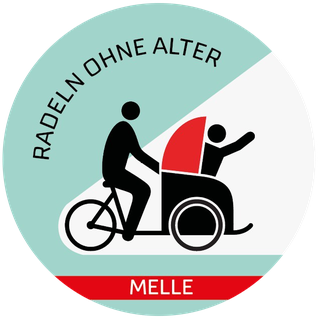
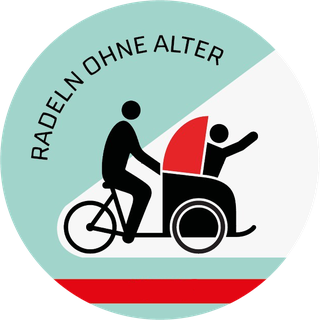
Projektlogo ohne Ortsnamen, App heißt Rikscha-Fahrten
Das Logo „Radeln ohne Alter" gilt jetzt für alle Standorte: Es ersetzt
das Melle-Abzeichen auf der Anmeldekarte, in der Leiste, beim Einrichten
der App und in allen App- und Browsersymbolen. Der Kreis ist sauber
freigestellt, damit auf dem blauen Grund kein heller Rand steht.

Browser-Tab, Startbildschirm und Manifest heißen „Rikscha-Fahrten“.
Die Meldung für unbekannte Namen verweist auf „eure Koordination“, das
Beispiel beim Ort der Fahrt nennt keinen Ort mehr.

Claude-Session: https://claude.ai/code/session_01RX9pT1q1FqZi6HMQU5VNFW

diff --git a/index.html b/index.html
@@ -4,7 +4,7 @@
     <meta charset="UTF-8" />
     <meta name="viewport" content="width=device-width, initial-scale=1.0, viewport-fit=cover" />
     <meta name="theme-color" content="#245892" />
-    <title>Rikscha – Hospizinitiative Melle</title>
+    <title>Rikscha-Fahrten</title>
 
     <!--
       Symbole und Manifest. Alle Pfade sind relativ, weil die App unter einem
@@ -19,8 +19,8 @@
     <!-- Auf dem iPhone ohne Browserleiste starten -->
     <meta name="apple-mobile-web-app-capable" content="yes" />
     <meta name="apple-mobile-web-app-status-bar-style" content="black-translucent" />
-    <meta name="apple-mobile-web-app-title" content="Rikscha Melle" />
-    <meta name="description" content="Fahrten und Pilot:innen der Aktion Radeln ohne Alter in Melle verwalten." />
+    <meta name="apple-mobile-web-app-title" content="Rikscha-Fahrten" />
+    <meta name="description" content="Fahrten und Pilot:innen der Aktion Radeln ohne Alter verwalten." />
 
     <!--
       Start-Diagnose: laeuft vor der eigentlichen App und faengt alles ab,

diff --git a/src/components/Marke.tsx b/src/components/Marke.tsx
@@ -11,7 +11,7 @@ export function Logo({ className }: { className?: string }) {
   return <img src={eigenes} className={className} alt="Logo der Organisation" />
 }
 
-/** Logo der Aktion „Radeln ohne Alter“, Standort Melle. */
+/** Logo des Projekts „Radeln ohne Alter“, für alle Standorte gleich. */
 export function RadelnLogo({ className }: { className?: string }) {
-  return <img src={radeln} className={className} alt="Radeln ohne Alter – Melle" />
+  return <img src={radeln} className={className} alt="Radeln ohne Alter" />
 }

diff --git a/src/components/FahrtDialog.tsx b/src/components/FahrtDialog.tsx
@@ -279,7 +279,7 @@ export function FahrtDialog({ fahrt, onClose, onGespeichert }: Props) {
                     id="fahrt-ort"
                     type="text"
                     value={werte.location}
-                    placeholder="z. B. Seniorenheim Melle, Haupteingang"
+                    placeholder="z. B. Seniorenzentrum am Park, Haupteingang"
                     onChange={(e) => setze('location', e.target.value)}
                     required
                   />

diff --git a/src/pages/Login.tsx b/src/pages/Login.tsx
@@ -42,7 +42,7 @@ export function Login() {
       const check = await checkLoginName(name)
       if (!check.found || !check.login_email) {
         setError(
-          'Dieser Name ist nicht hinterlegt. Bitte achte auf die genaue Schreibweise oder wende dich an die Koordination der Hospizinitiative Melle.',
+          'Dieser Name ist nicht hinterlegt. Bitte achte auf die genaue Schreibweise oder wende dich an eure Koordination.',
         )
         return
       }

diff --git a/README.md b/README.md
@@ -343,7 +343,9 @@ ein `DELETE` in der Datenbank die Datei im Speicher nicht mit entfernt.
 ## Als App auf dem Handy
 
 Die Seite lässt sich zum Startbildschirm hinzufügen und startet dann ohne
-Browserleiste, mit dem Logo von „Radeln ohne Alter – Melle" als Symbol. Auf der
+Browserleiste, unter dem Namen **Rikscha-Fahrten** und mit dem Logo des
+Projekts „Radeln ohne Alter" als Symbol (ohne Ortsnamen, für alle Standorte
+gleich). Auf der
 Startseite steht dafür der Knopf **App auf dem Handy einrichten** mit einer
 Anleitung für iPhone und Android.
 
